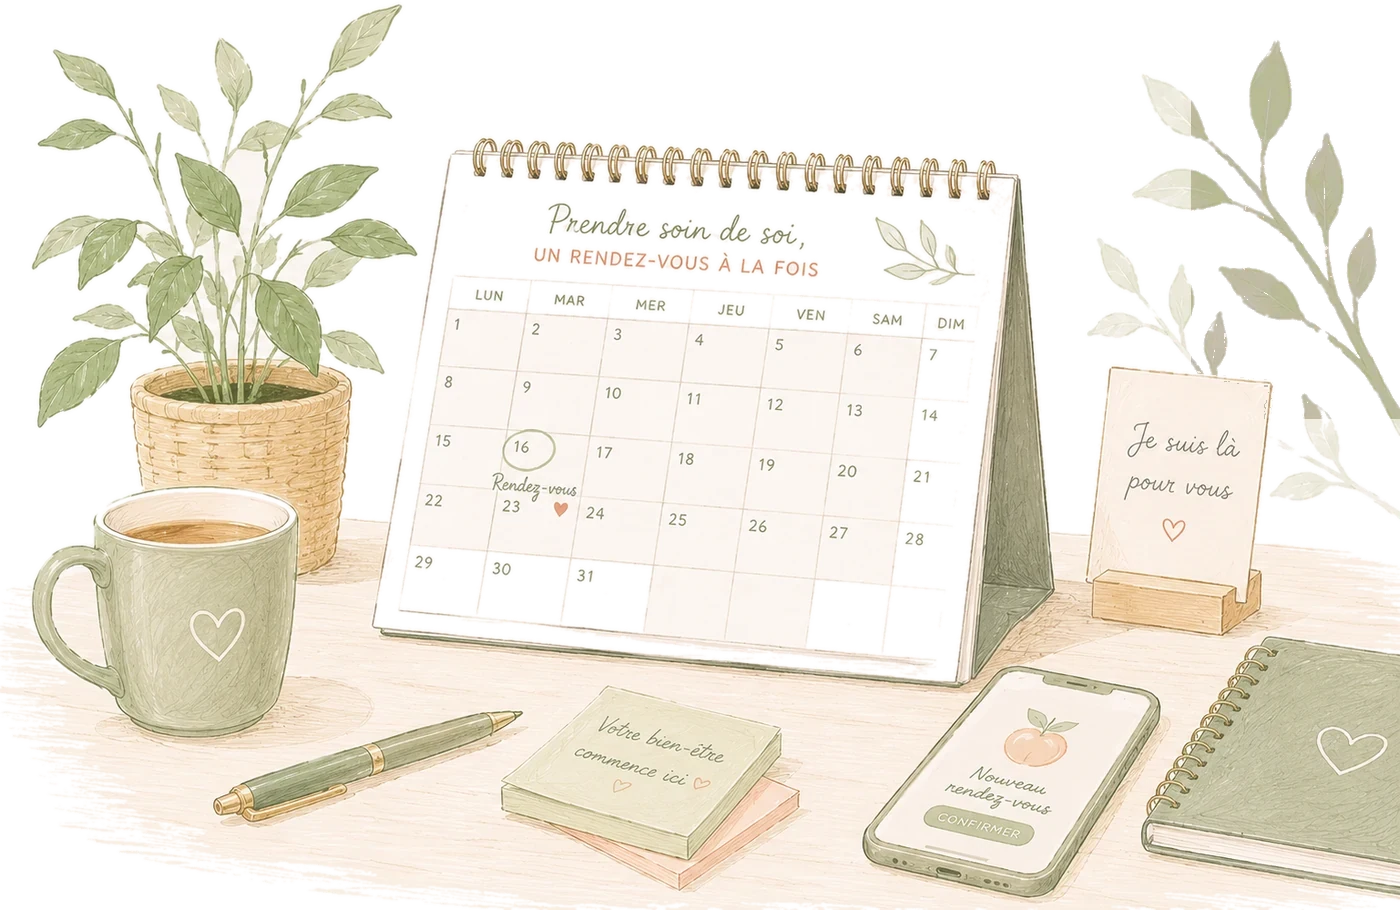
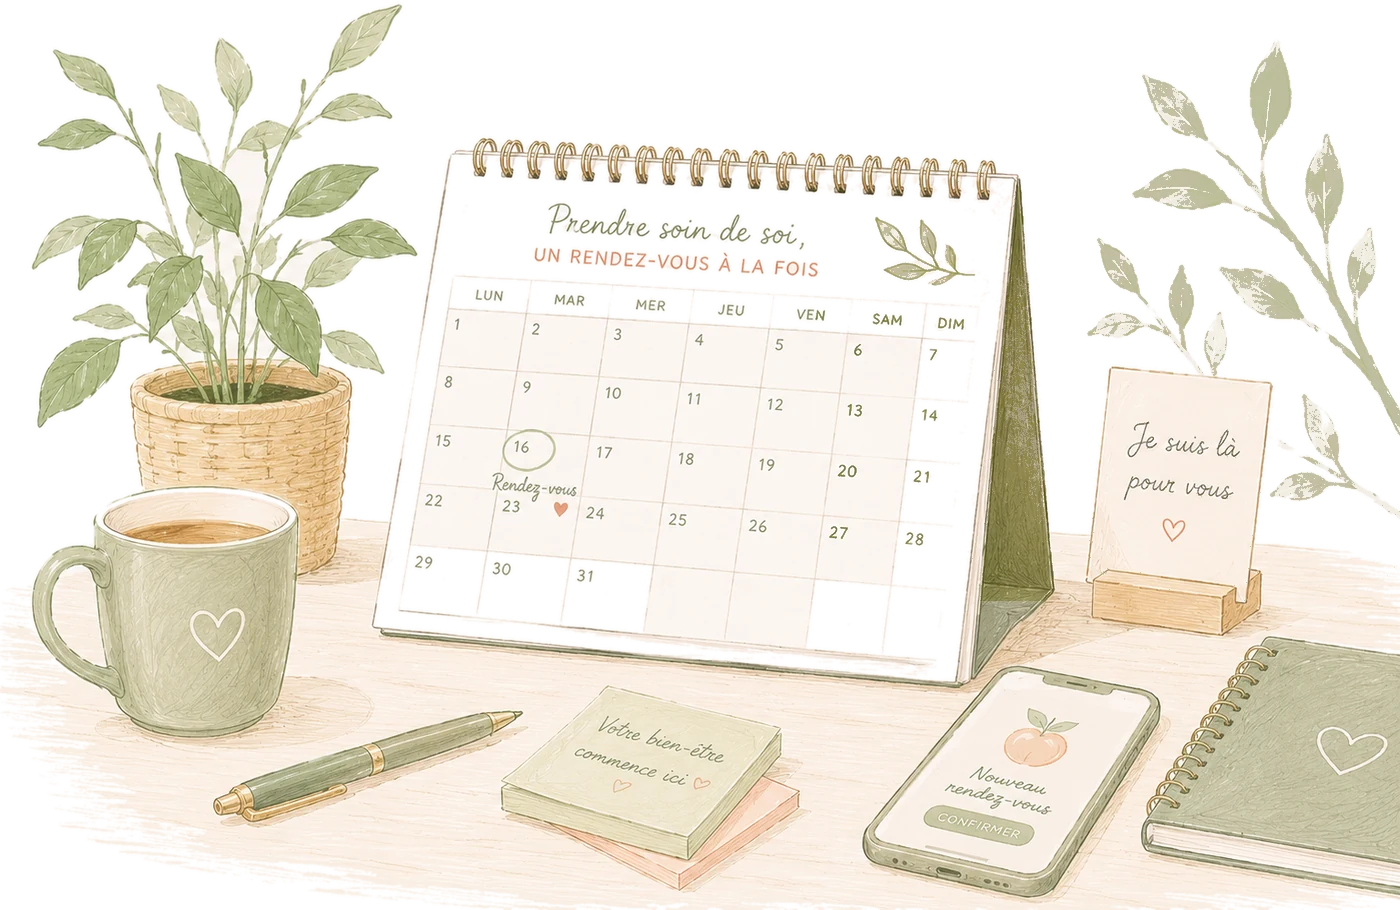
Mobile : correctifs sur affichage des images hero en haut, recentrage de la bulle du hero de la home, photo agrandie section entreprise

diff --git a/src/assets/css/style.css b/src/assets/css/style.css
@@ -163,7 +163,7 @@ footer{background:#20211b;color:#bcd3bf;padding:56px 0 26px}
   .reasons,.cards{grid-template-columns:1fr}
   .hero{min-height:100vh;min-height:100svh;align-items:flex-start;padding-top:24px}
 }
-.cta-meta{margin-top:28px;font-size:.86rem;color:var(--ink);line-height:1.9}.cta-meta a{color:var(--terra);font-weight:700;text-decoration:none;border-bottom:2px solid rgba(184,84,32,.4)}.cta-meta a:hover{border-color:var(--terra)}.entreprise .ent-visual{display:block;overflow:visible;border-radius:0;background:none;border:none}.entreprise .ent-visual img{width:100%;height:auto;display:block;border-radius:22px;box-shadow:0 18px 42px rgba(31,27,23,.16)}.entreprise ol.steps li:hover{transform:translateX(5px)}.reason{transition:transform .25s cubic-bezier(.2,.7,.2,1)}.reason:hover{transform:translateY(-4px)}.stats{background:var(--sable);border-top:1px solid var(--line);border-bottom:1px solid var(--line)}.stats .wrap{display:grid;grid-template-columns:repeat(4,1fr)}.stats .it{padding:30px 22px;text-align:center;border-left:1px solid var(--line)}.stats .it:first-child{border-left:0}.stats .n{display:block;font-weight:800;font-size:1.16rem;color:var(--vert);line-height:1.2}.stats .l{display:block;margin-top:8px;font-size:.72rem;letter-spacing:.12em;text-transform:uppercase;color:var(--terra);font-weight:700;line-height:1.5}@media(max-width:760px){.stats .wrap{grid-template-columns:1fr 1fr}.stats .it{border-left:0;border-top:1px solid var(--line)}.stats .it:nth-child(-n+2){border-top:0}.stats .it:nth-child(even){border-left:1px solid var(--line)}}.cascade .reason{opacity:0;transform:translateY(26px);transition:opacity 1.2s cubic-bezier(.16,1,.3,1),transform 1.2s cubic-bezier(.16,1,.3,1)}.cascade.in .reason{opacity:1;transform:none}.cascade.in .reason:nth-child(1){transition-delay:0s}.cascade.in .reason:nth-child(2){transition-delay:.1s}.cascade.in .reason:nth-child(3){transition-delay:.2s}.cascade.in .reason:nth-child(4){transition-delay:.3s}.cascade.in .reason:nth-child(5){transition-delay:.4s}.cascade.in .reason:nth-child(6){transition-delay:.5s}.portrait::before{content:"";position:absolute;inset:-26px;border-radius:50%;background:radial-gradient(ellipse at 50% 48%, rgba(40,92,57,.22) 0%, rgba(40,92,57,.11) 46%, rgba(40,92,57,0) 72%);z-index:0;pointer-events:none}.foot .slogan{color:#fff;font-size:1.12rem;font-weight:600;line-height:1.4;margin-top:16px;max-width:15em}.foot .foot-roles{font-size:.84rem;color:#92b096;margin-top:10px;max-width:26em}
+.cta-meta{margin-top:28px;font-size:.86rem;color:var(--ink);line-height:1.9}.cta-meta a{color:var(--terra);font-weight:700;text-decoration:none;border-bottom:2px solid rgba(184,84,32,.4)}.cta-meta a:hover{border-color:var(--terra)}.entreprise .ent-visual{display:block;overflow:visible;border-radius:0;background:none;border:none;padding:0;aspect-ratio:auto}.entreprise .ent-visual img{width:100%;height:auto;display:block;border-radius:22px;box-shadow:0 18px 42px rgba(31,27,23,.16)}.entreprise ol.steps li:hover{transform:translateX(5px)}.reason{transition:transform .25s cubic-bezier(.2,.7,.2,1)}.reason:hover{transform:translateY(-4px)}.stats{background:var(--sable);border-top:1px solid var(--line);border-bottom:1px solid var(--line)}.stats .wrap{display:grid;grid-template-columns:repeat(4,1fr)}.stats .it{padding:30px 22px;text-align:center;border-left:1px solid var(--line)}.stats .it:first-child{border-left:0}.stats .n{display:block;font-weight:800;font-size:1.16rem;color:var(--vert);line-height:1.2}.stats .l{display:block;margin-top:8px;font-size:.72rem;letter-spacing:.12em;text-transform:uppercase;color:var(--terra);font-weight:700;line-height:1.5}@media(max-width:760px){.stats .wrap{grid-template-columns:1fr 1fr}.stats .it{border-left:0;border-top:1px solid var(--line)}.stats .it:nth-child(-n+2){border-top:0}.stats .it:nth-child(even){border-left:1px solid var(--line)}}.cascade .reason{opacity:0;transform:translateY(26px);transition:opacity 1.2s cubic-bezier(.16,1,.3,1),transform 1.2s cubic-bezier(.16,1,.3,1)}.cascade.in .reason{opacity:1;transform:none}.cascade.in .reason:nth-child(1){transition-delay:0s}.cascade.in .reason:nth-child(2){transition-delay:.1s}.cascade.in .reason:nth-child(3){transition-delay:.2s}.cascade.in .reason:nth-child(4){transition-delay:.3s}.cascade.in .reason:nth-child(5){transition-delay:.4s}.cascade.in .reason:nth-child(6){transition-delay:.5s}.portrait::before{content:"";position:absolute;inset:-26px;border-radius:50%;background:radial-gradient(ellipse at 50% 48%, rgba(40,92,57,.22) 0%, rgba(40,92,57,.11) 46%, rgba(40,92,57,0) 72%);z-index:0;pointer-events:none}.foot .slogan{color:#fff;font-size:1.12rem;font-weight:600;line-height:1.4;margin-top:16px;max-width:15em}.foot .foot-roles{font-size:.84rem;color:#92b096;margin-top:10px;max-width:26em}
 /* CTA dans le menu mobile */
 .menu-cta{display:none}
 @media(max-width:880px){.menu-cta{display:block;width:100%;margin-top:4px}.menu-cta .cta{display:inline-flex;width:100%;justify-content:center}}
@@ -572,7 +572,7 @@ footer{background:#20211b;color:#bcd3bf;padding:56px 0 26px}
 .page-hero-illus--contact img{max-width:640px;border-radius:0;box-shadow:none;filter:drop-shadow(0 16px 30px rgba(40,77,28,.12));-webkit-mask-image:linear-gradient(to bottom,#000 72%,transparent 100%);mask-image:linear-gradient(to bottom,#000 72%,transparent 100%)}
 @media(max-width:760px){
   .page-hero-split--contact{grid-template-columns:1fr}
-  .page-hero-illus--contact{order:0}
+  .page-hero-illus--contact{order:-1}
   .page-hero-illus--contact img{max-width:480px}
 }
 
@@ -662,3 +662,26 @@ h2{font-size:clamp(1.5rem,2.25vw,1.78rem)}
 .spec-tool .diet-card{background:transparent;border-color:var(--line)}
 .spec-tool .deroule--hyp{background:var(--sable)}
 .spec-tool .myths li{background:var(--sable);border-style:solid;border-color:var(--line)}
+
+/* ===========================================================
+   Ajustements mobile
+   - reveals latéraux → verticaux (évite le débordement à droite,
+     ex. la « bulle » cabinet qui partait sur la droite)
+   - bulle cabinet légèrement réduite et centrée
+   - illustration du hero À propos remontée en haut (comme entreprise)
+   =========================================================== */
+@media(max-width:760px){
+  .reveal-l,.reveal-r{transform:translateY(30px)}
+  .reveal-l.in,.reveal-r.in{transform:none}
+  .portrait.reveal-l{transform:translateY(30px) scale(.95)}
+  .cab{max-width:300px;margin-left:auto;margin-right:auto}
+}
+@media(max-width:820px){
+  .page-hero .hero-illus{order:-1}
+}
+
+/* Stats (home) : empêcher le débordement horizontal des colonnes en mobile */
+@media(max-width:760px){
+  .stats .it{min-width:0}
+  .stats .n,.stats .l{overflow-wrap:anywhere}
+}